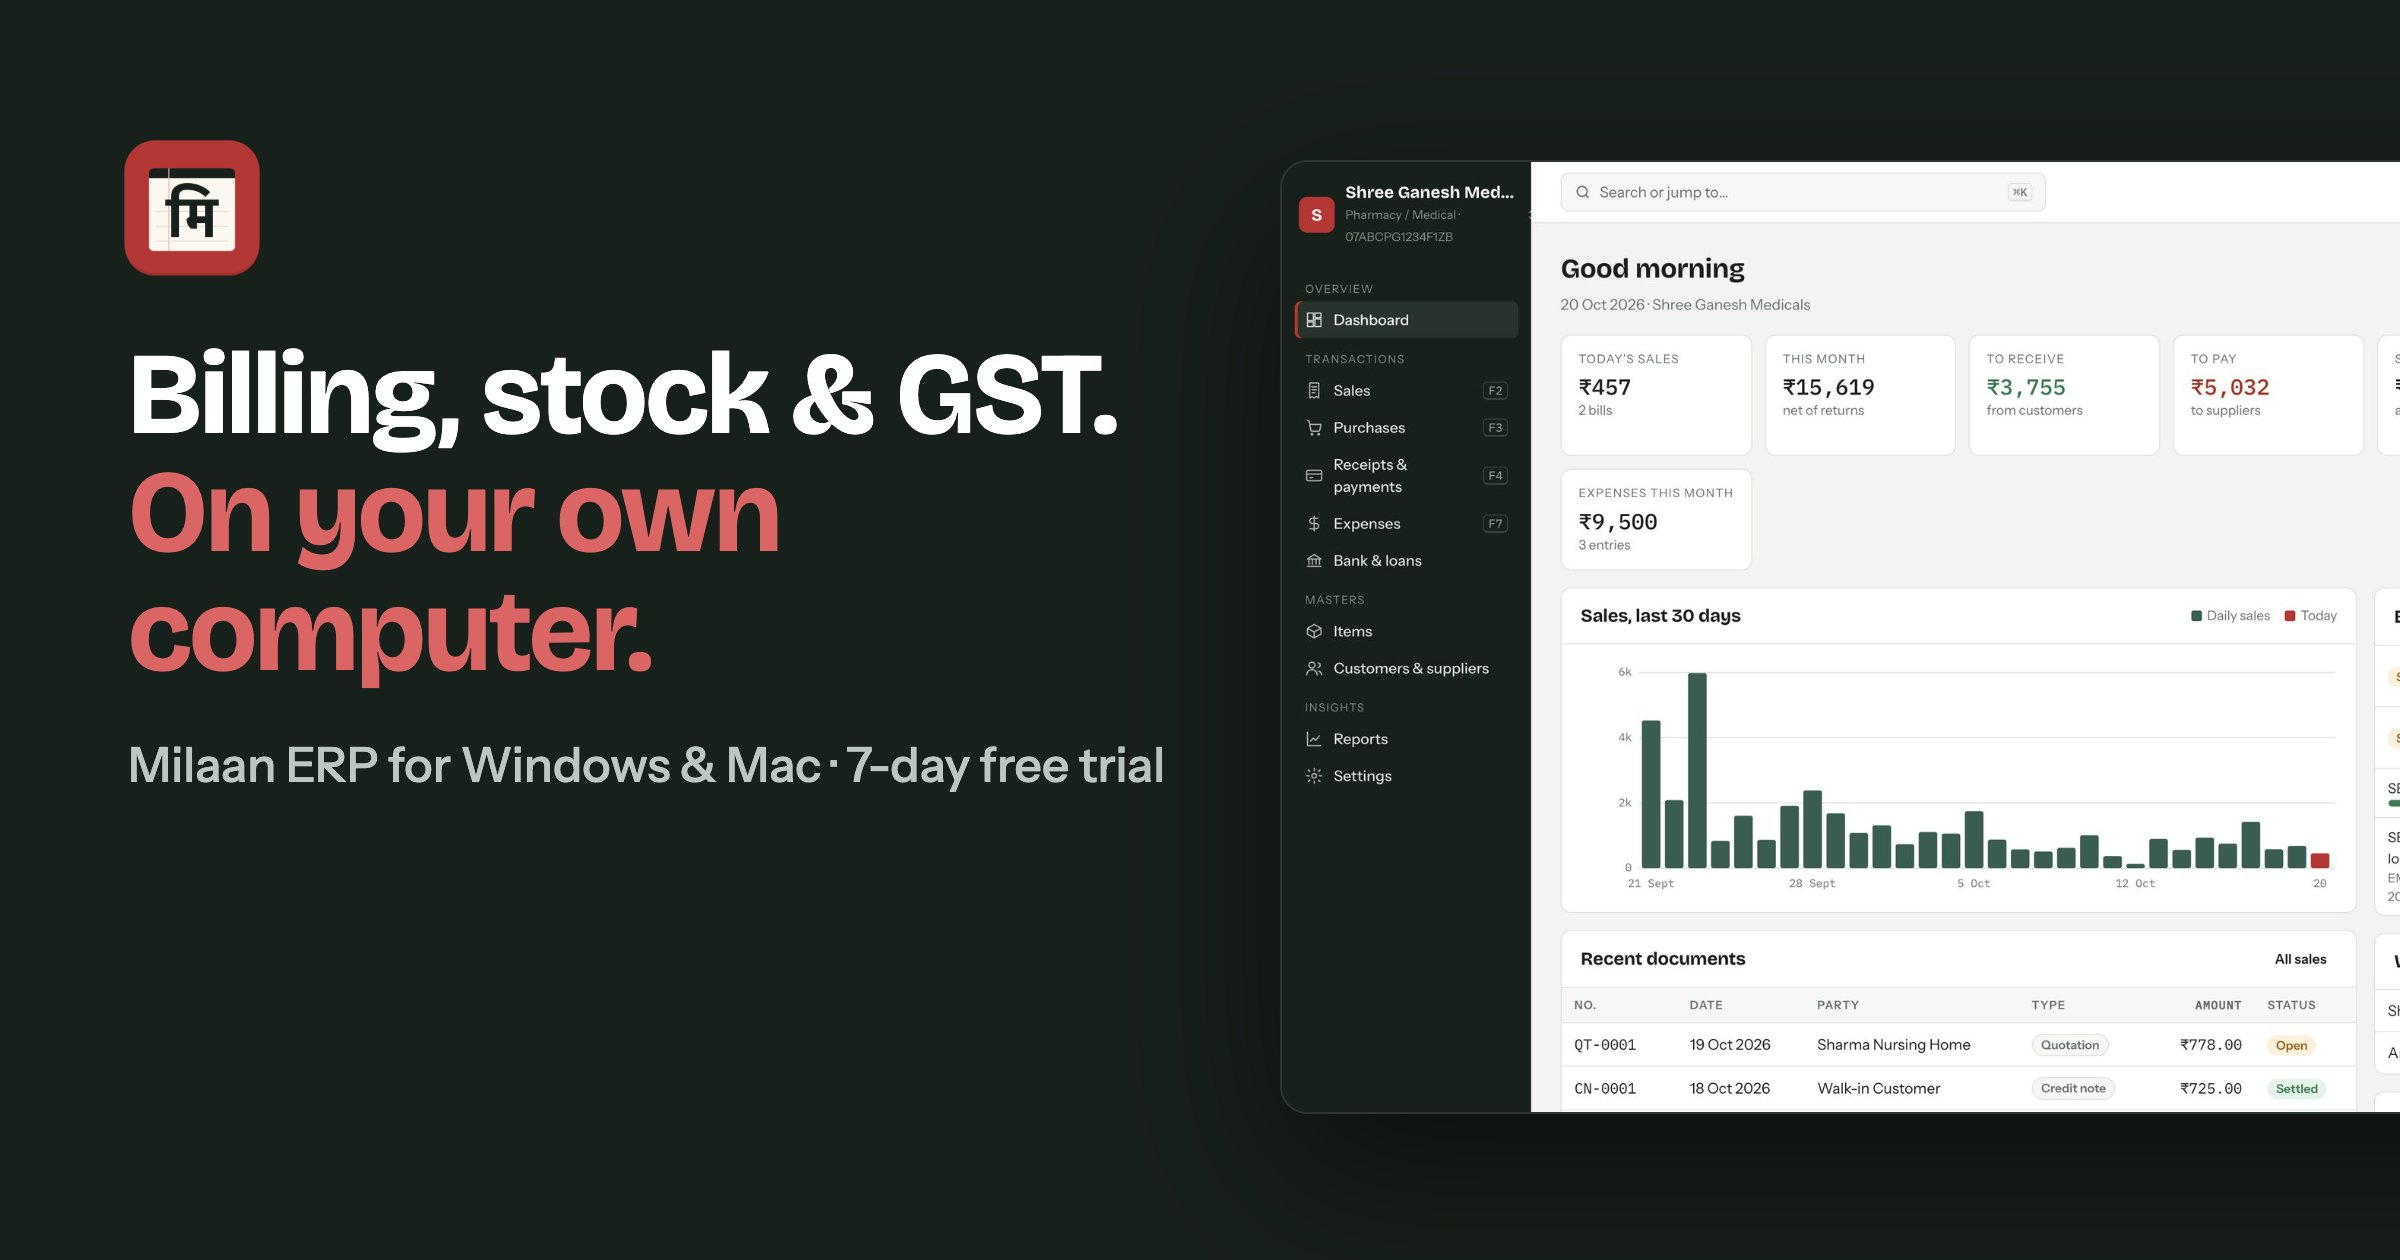
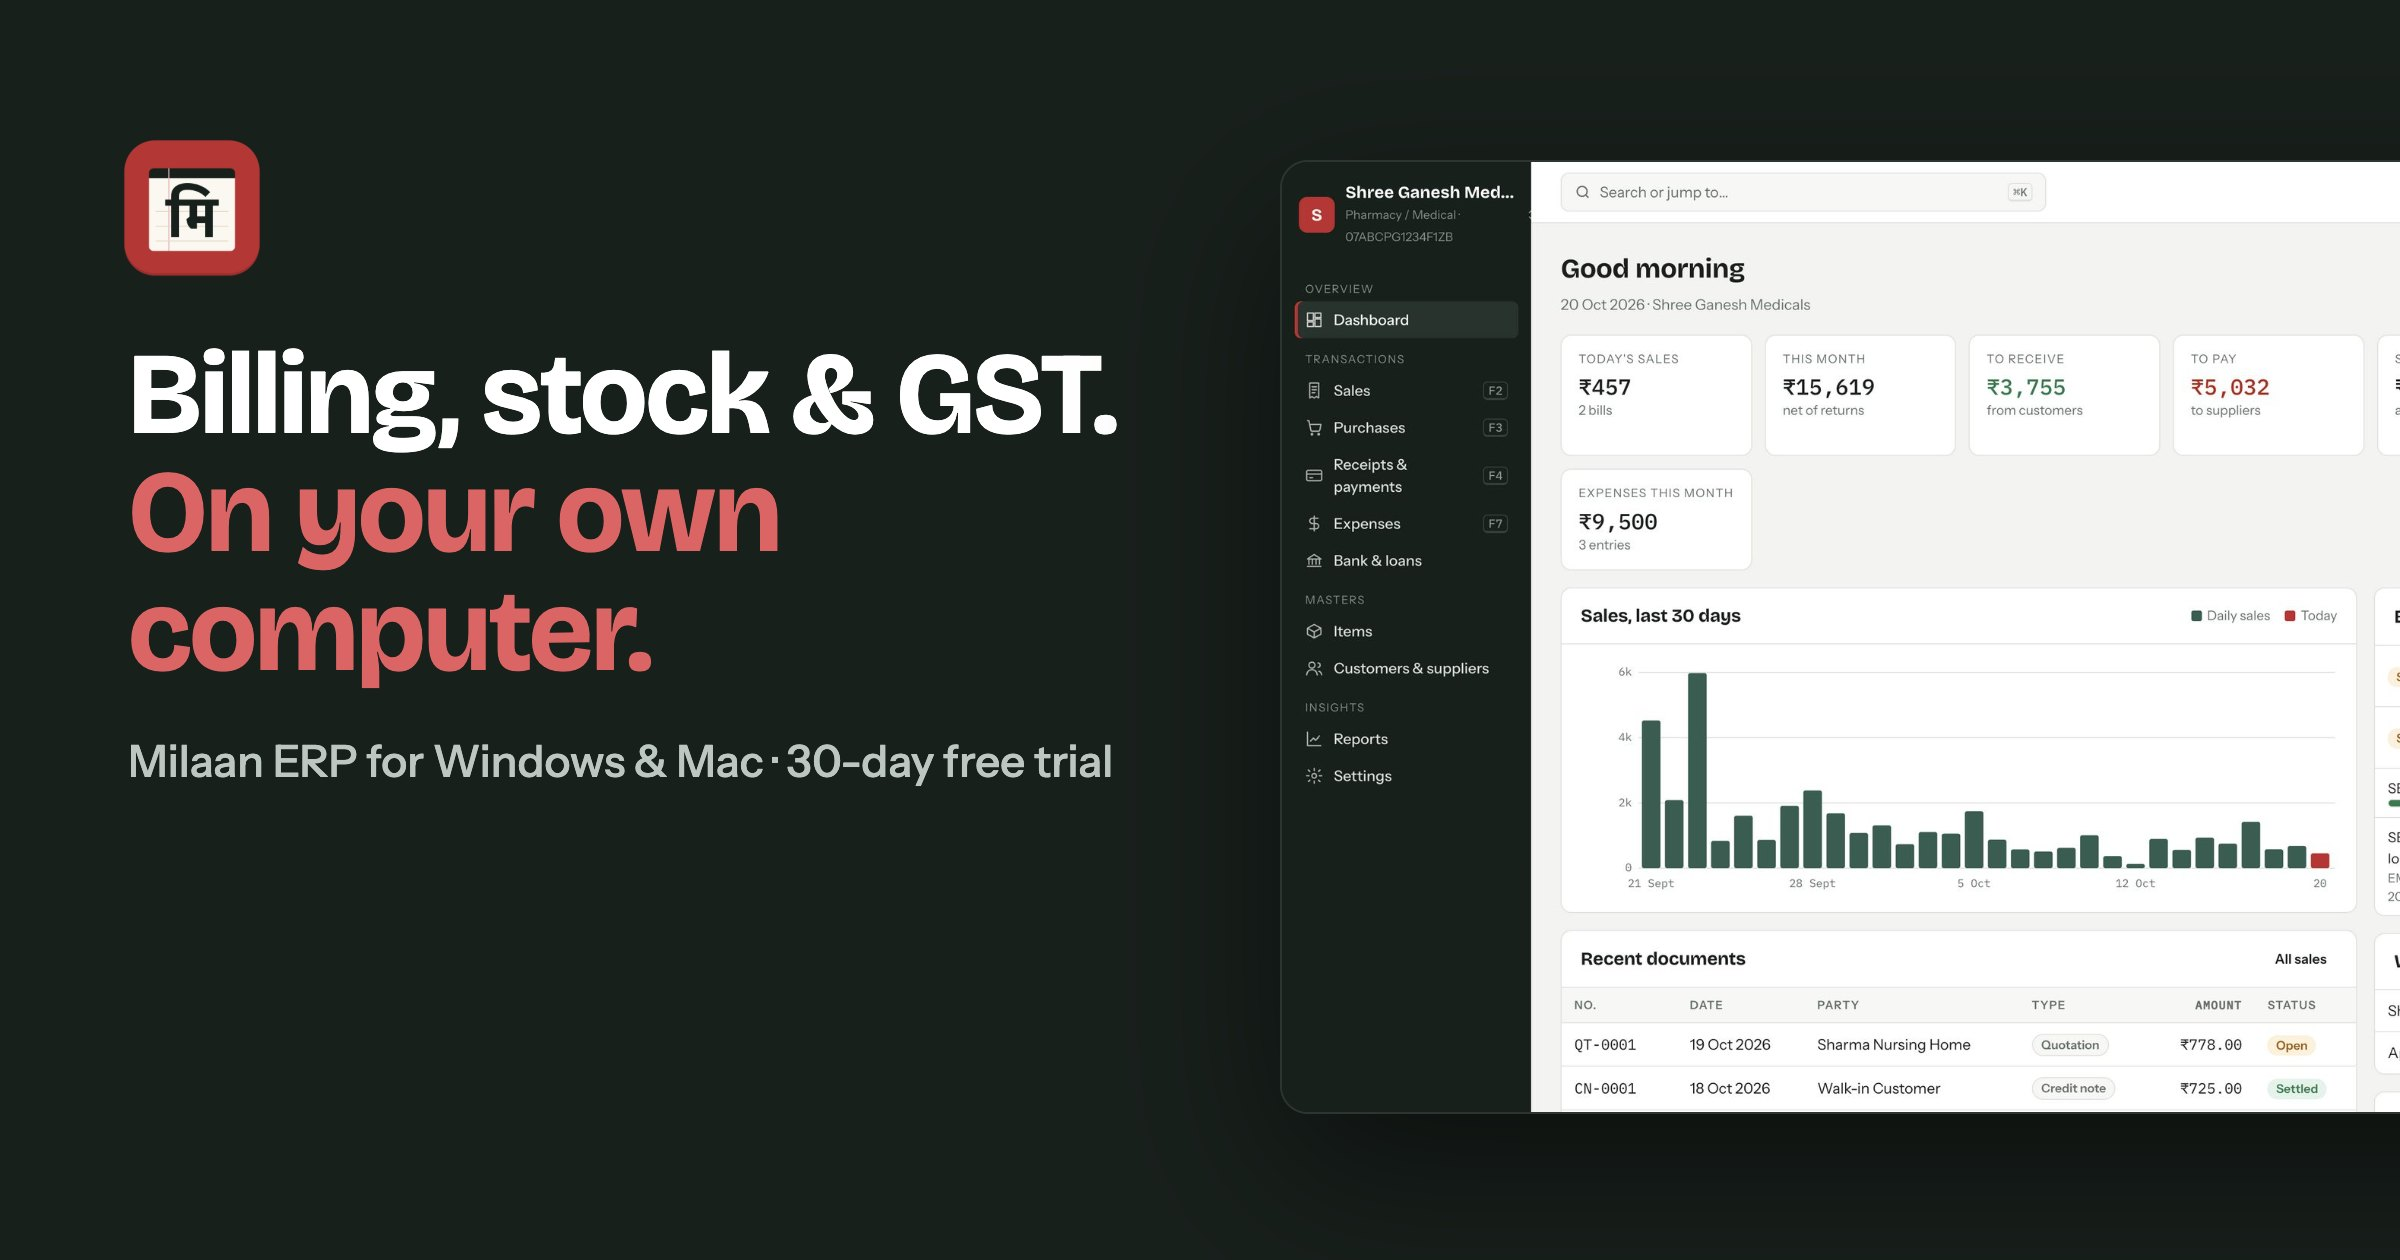
Release 2.6.2: 30-day free trial

Changed region(s): [[0.0625, 0.5881, 0.5, 0.619]]

diff --git a/index.html b/index.html
@@ -4,14 +4,14 @@
 <meta charset="utf-8">
 <meta name="viewport" content="width=device-width, initial-scale=1">
 <title>Milaan ERP · Billing, stock & GST software for Windows and Mac</title>
-<meta name="description" content="Billing software that is easy to learn and works without the internet. GST bills, stock with batch & expiry, bank limits and loan EMIs for Indian small businesses, on Windows and Mac. No AMC. 7-day free trial.">
+<meta name="description" content="Billing software that is easy to learn and works without the internet. GST bills, stock with batch & expiry, bank limits and loan EMIs for Indian small businesses, on Windows and Mac. No AMC. 30-day free trial.">
 <meta name="theme-color" content="#16201c">
 <link rel="icon" type="image/png" href="img/icon-64.png">
 <link rel="apple-touch-icon" href="img/icon-180.png">
 <link rel="canonical" href="https://xoftverse.com/milaanerp/">
 <meta property="og:type" content="website">
 <meta property="og:title" content="Milaan ERP · Billing, stock & GST on your own computer">
-<meta property="og:description" content="GST billing, stock with batch & expiry, bank accounts, loans and reports for Windows and Mac. Works offline. 7-day free trial.">
+<meta property="og:description" content="GST billing, stock with batch & expiry, bank accounts, loans and reports for Windows and Mac. Works offline. 30-day free trial.">
 <meta property="og:image" content="https://xoftverse.com/milaanerp/img/og.jpg">
 <meta property="og:url" content="https://xoftverse.com/milaanerp/">
 <meta name="twitter:card" content="summary_large_image">
@@ -66,7 +66,7 @@
         <h1>Stop fighting your billing software.<br><em>Start running your business.</em></h1>
         <p class="lead">Most billing software is either old and confusing, or online-only and stuck when the internet drops. Milaan is neither. GST bills, stock with expiry, bank limits and loan EMIs on one clean screen, on your own computer, working even when the internet doesn’t.</p>
         <div class="hero-cta">
-          <a class="btn primary lg" href="#download" id="heroDl">Download free 7-day trial</a>
+          <a class="btn primary lg" href="#download" id="heroDl">Download free 30-day trial</a>
           <a class="btn lg ghost-light" href="#pricing">See prices</a>
         </div>
         <p class="small hero-note" id="heroNote">Windows 10/11 and macOS · No card, no sign-up · Your data is never locked</p>
@@ -87,7 +87,7 @@
       <div><b>100%</b><span>works offline</span></div>
       <div><b>₹0</b><span>AMC or add-ons</span></div>
       <div><b>&lt;₹11</b><span>a day, yearly plan</span></div>
-      <div><b>7 days</b><span>free, no card</span></div>
+      <div><b>30 days</b><span>free, no card</span></div>
     </div>
   </section>
 
@@ -176,7 +176,7 @@
           </tbody>
         </table>
       </div>
-      <p class="small muted center cmp-note">A general comparison with the kinds of software small businesses commonly use. Individual products differ, so try Milaan free for 7 days and judge for yourself.</p>
+      <p class="small muted center cmp-note">A general comparison with the kinds of software small businesses commonly use. Individual products differ, so try Milaan free for 30 days and judge for yourself.</p>
     </div>
   </section>
 
@@ -322,7 +322,7 @@
       <div class="sec-h">
         <p class="eyebrow">Pricing</p>
         <h2>Simple prices. Every feature in every plan.</h2>
-        <p class="lead">Try everything free for 7 days. After that, the yearly plan works out to <b>less than ₹11 a day</b>, less than a cup of chai, for software your whole business runs on.</p>
+        <p class="lead">Try everything free for 30 days. After that, the yearly plan works out to <b>less than ₹11 a day</b>, less than a cup of chai, for software your whole business runs on.</p>
       </div>
       <div class="plans">
         <div class="plan">
@@ -363,7 +363,7 @@
     <div class="wrap">
       <div class="sec-h">
         <p class="eyebrow">Download</p>
-        <h2>Start your free 7-day trial</h2>
+        <h2>Start your free 30-day trial</h2>
         <p class="lead">Everything works during the trial. Afterwards your books stay safe and readable until you choose a plan.</p>
       </div>
       <div class="dls">
@@ -445,8 +445,8 @@
 
   <section class="sec closer">
     <div class="wrap narrow center">
-      <h2>Give it one week</h2>
-      <p class="lead">Put in your real items and make your real bills for 7 days. If Milaan doesn’t make your day easier, you’ve lost nothing, and your data is still yours.</p>
+      <h2>Give it one month</h2>
+      <p class="lead">Put in your real items and make your real bills for a whole month. If Milaan doesn’t make your day easier, you’ve lost nothing, and your data is still yours.</p>
       <div class="hero-cta center-row">
         <a class="btn primary lg" href="#download">Download free trial</a>
         <a class="btn lg wa-demo" href="https://wa.me/919779650064?text=Hi%2C%20I%27d%20like%20a%20demo%20of%20Milaan%20ERP." target="_blank" rel="noopener">Ask for a demo on WhatsApp</a>
